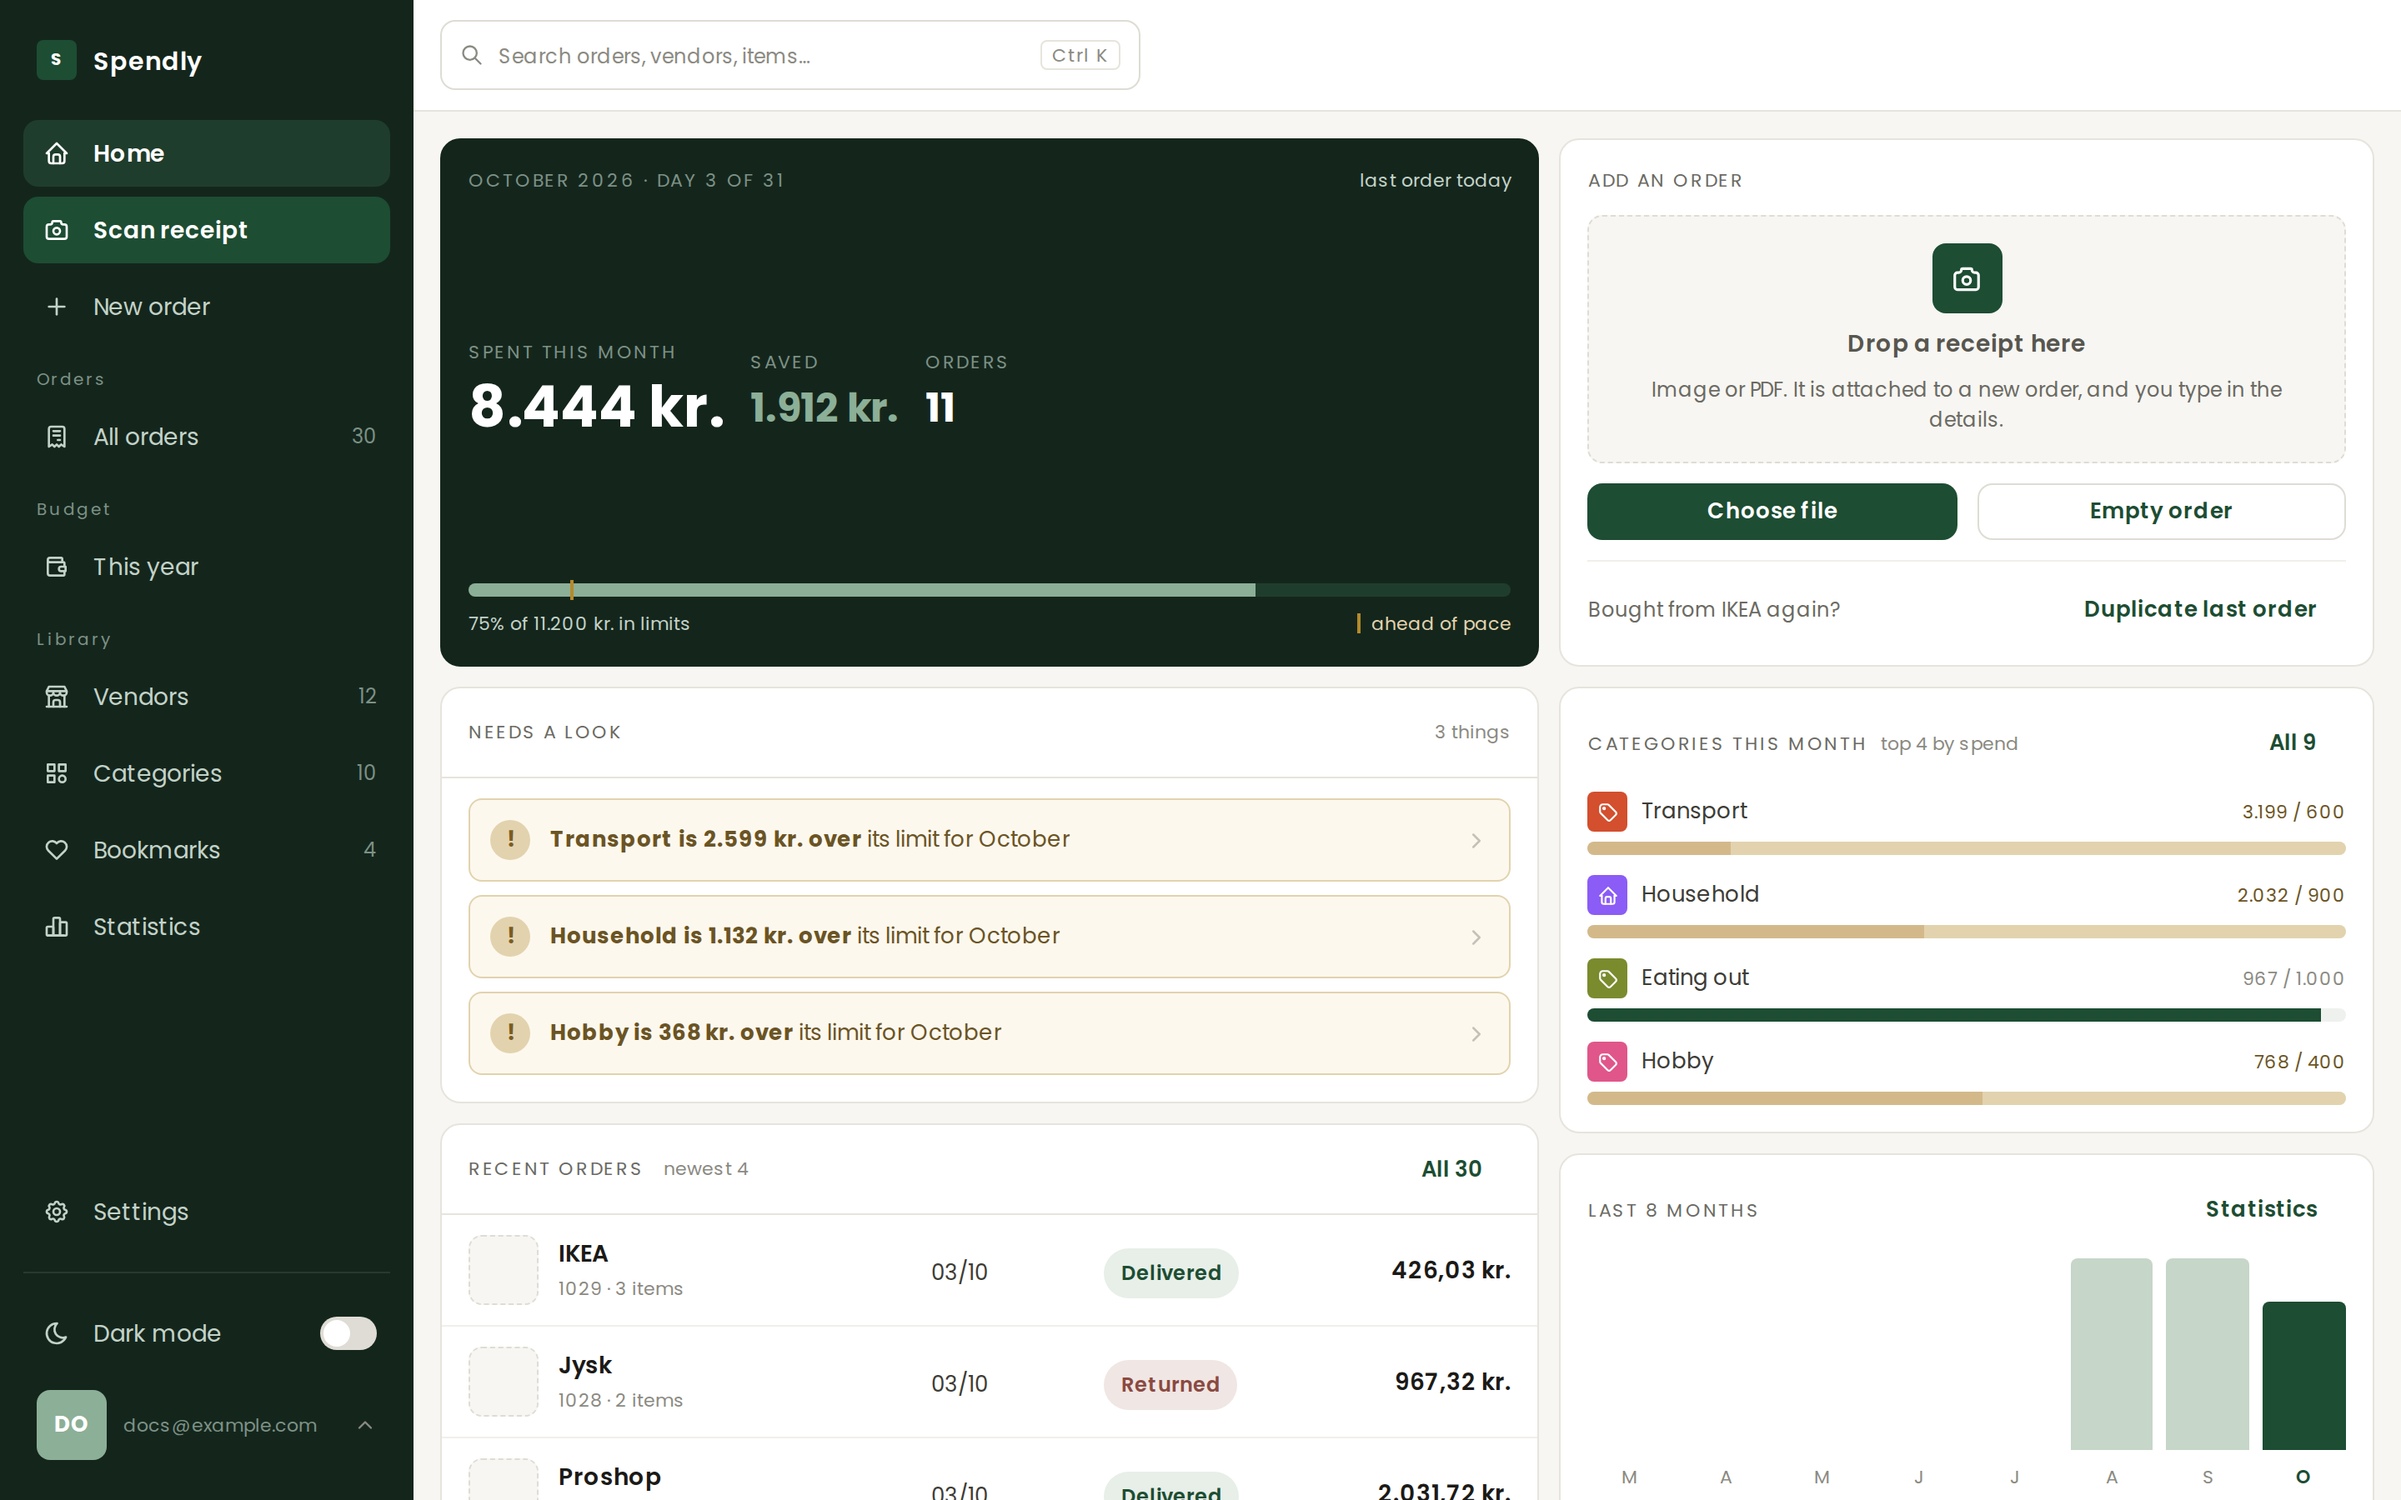
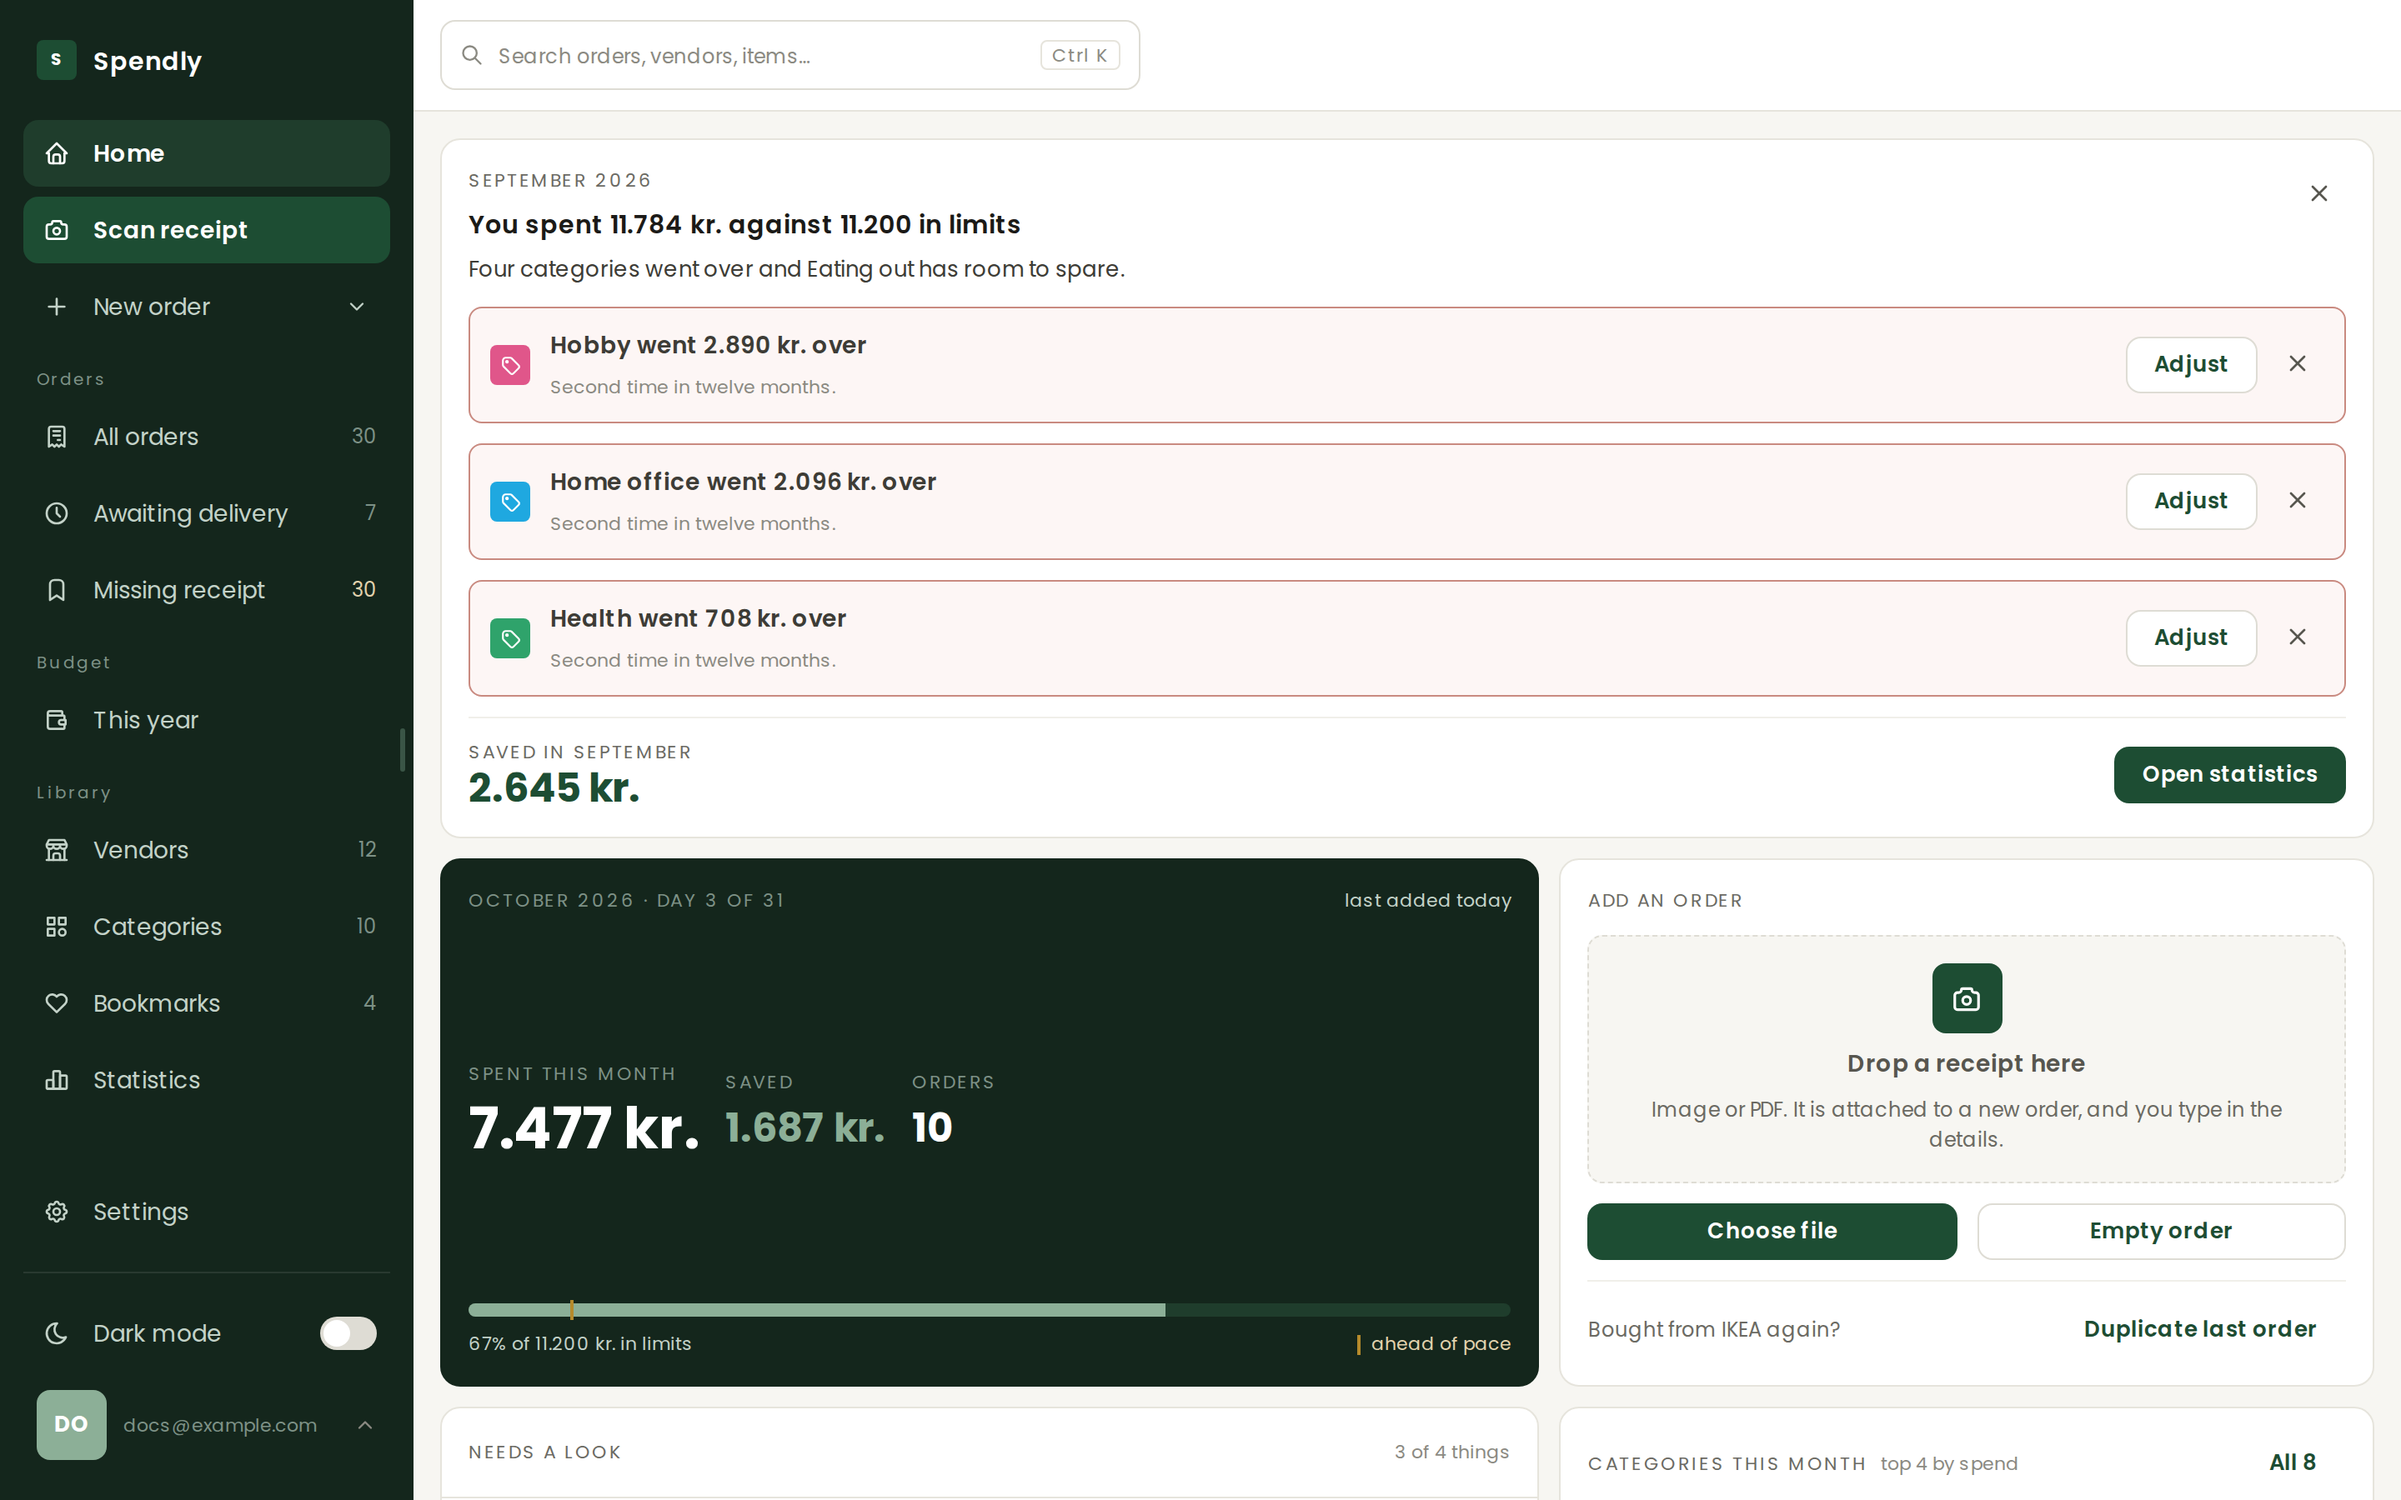
Monthly summary: each line can be hidden for that month; the docs shots are re-rendered
A line's x hides that category from the month's summary on every device, with Undo, until the next
month's summary arrives (a new table keyed by month, migration 181). On a phone a row's text
buttons go under its words, where the words start, so a line's figure is never covered.

docs/home.png, all-orders.png and phone.png are rendered from the app as it now is; two renders
in a row differ by 0 pixels.

Claude-Session: https://claude.ai/code/session_01Av9Hpy6pVGaoxMQY8Ab8u5

diff --git a/react/src/pages/Home.jsx b/react/src/pages/Home.jsx
@@ -17,7 +17,7 @@ import { useShellShape } from '../app/useMedia.js'
 import { CategoryMark, glyphOf } from '../app/categoryMark.jsx'
 import { OrderPhoto, StatusPill } from '../app/orderRow.jsx'
 import {
-	failureMessage, getCategories, getCurrentUser, getHomeAttention, getMonthlySummary, getOrders, getSettings, getStatsSlice,
+	failureMessage, getCategories, getCurrentUser, getHomeAttention, getMonthlySummary, hideSummaryLine, getOrders, getSettings, getStatsSlice,
 	overBudget, putSummaryAway, withMonthSpend
 } from '../api/client.js'
 import { useApi } from '../api/useApi.js'
@@ -157,8 +157,21 @@ export default function Home() {
 		}
 	}
 	const due = summary.data
+	// a line hidden or brought back here holds until the server's answer says the same
+	const [lineHidden, setLineHidden] = useState({})
+	const isHidden = id => lineHidden[id] ?? due?.hidden?.includes(id) ?? false
+	const hideLine = async (c, monthName, hidden = true) => {
+		setLineHidden(was => ({ ...was, [c.id]: hidden }))
+		try {
+			await hideSummaryLine(due.month, c.id, hidden)
+			if (hidden) toast({ message: `${c.name} is hidden from the ${monthName} summary.`, undo: { label: 'Undo', onClick: () => hideLine(c, monthName, false) } })
+		} catch (error) {
+			setLineHidden(was => ({ ...was, [c.id]: !hidden }))
+			toast({ message: failureMessage(error, hidden ? 'The line was not hidden. Try again.' : 'The line did not come back. Try again.'), color: 'danger' })
+		}
+	}
 	const notice = known && loud.summary && due?.orders && !due.seen && putAway !== due.month && categories.data
-		? <MonthlySummary summary={due} categories={categories.data} early={loud.early} onHide={() => hide(due.month)} />
+		? <MonthlySummary summary={due} categories={categories.data} early={loud.early} onHide={() => hide(due.month)} isHidden={isHidden} onHideLine={hideLine} />
 		: null
 	if (recent.data && !recent.data.total) return <DayOne categories={categories.data} name={name} touch={touch} />
 	const props = { month, categories, view, recent, attention: attention.data, name, notice }
@@ -356,7 +369,7 @@ function summarySentence(over, close, room) {
 
 /** Last month against its limits, said once (8b, 6f): from the first of the month until the reader
     hides it. Each row opens that month's orders in the category. */
-function MonthlySummary({ summary, categories, early, onHide }) {
+function MonthlySummary({ summary, categories, early, onHide, isHidden, onHideLine }) {
 	const month = monthNames('long')[Number(summary.month.slice(5)) - 1]
 	const byId = new Map(categories.map(c => [c.id, c]))
 	const rows = summary.limits
@@ -369,19 +382,22 @@ function MonthlySummary({ summary, categories, early, onHide }) {
 	const limits = rows.reduce((sum, c) => sum + c.budget, 0)
 	const of = c => `${amount(c.spend, 0)} of ${currency(c.budget, 0)}`
 	const link = c => `/orders?category=${c.id}&from=${summary.from}&to=${summary.to}`
+	// a hidden line goes from the rows below, not from what the month came to
+	const shown = c => !isHidden(c.id)
+	const roomShown = rows.filter(c => shown(c) && !over.includes(c) && !close.includes(c)).sort((a, b) => a.used - b.used || a.name.localeCompare(b.name))[0]
 	const lines = [
-		...over.map(c => ({
+		...over.filter(shown).map(c => ({
 			c, color: 'danger', mark: <CategoryMark category={c} size="small" />,
 			said: `went ${currency(c.spend - c.budget, 0)} over`,
 			meta: c.overs >= 12 ? 'Over in all twelve months. The limit may be too low.'
 				: c.overs >= 2 ? `${ORDINALS[c.overs]} time in twelve months.${c.overs >= 3 ? ' The limit may be too low.' : ''}` : of(c),
 			adjust: true
 		})),
-		...close.map(c => ({
+		...close.filter(shown).map(c => ({
 			c, mark: <Mark size="small" fill="solid" swatch="green-3" aria-hidden="true" aria-label="Close to its limit"><Icon name="alert-triangle" size={13} /></Mark>,
 			said: `finished at ${Math.floor(c.used)}%`, meta: of(c)
 		})),
-		...(room ? [{ c: room, mark: <Mark size="small" aria-hidden="true" aria-label={room.name}><Icon name={glyphOf(room.icon)} size={13} /></Mark>, said: `used ${Math.round(room.used)}%`, meta: of(room) }] : [])
+		...(roomShown ? [{ c: roomShown, mark: <Mark size="small" aria-hidden="true" aria-label={roomShown.name}><Icon name={glyphOf(roomShown.icon)} size={13} /></Mark>, said: `used ${Math.round(roomShown.used)}%`, meta: of(roomShown) }] : [])
 	].slice(0, SUMMARY_ROWS)
 	return (
 		<Card footer={[
@@ -406,7 +422,10 @@ function MonthlySummary({ summary, categories, early, onHide }) {
 					<div className="sp-stack sp-gap-12">
 						{lines.map(line => (
 							<ListItem key={line.c.id} color={line.color} mark={line.mark}
-								actions={line.adjust ? <Button variant="outline" size="small" to={`/categories/${line.c.id}/edit`}>Adjust</Button> : null}>
+								actions={<>
+									{line.adjust ? <Button variant="outline" size="small" to={`/categories/${line.c.id}/edit`}>Adjust</Button> : null}
+									<IconButton icon="x" aria-label={`Hide ${line.c.name} from the ${month} summary`} onClick={() => onHideLine(line.c, month)} />
+								</>}>
 								<Link className="sp-stack sp-gap-6 sp-grow hm-link" to={link(line.c)}>
 									<span className="sp-title hm-said"><span className="sp-truncate">{line.c.name}</span><span className="sp-nowrap">{line.said}</span></span>
 									<span className="sp-meta">{line.meta}</span>

diff --git a/api/src/lib/stats.js b/api/src/lib/stats.js
@@ -535,6 +535,11 @@ const selectLimitedMonths = db.prepare(`
 	GROUP BY oc.category_id, month
 `)
 const selectSummarySeen = db.prepare('SELECT month FROM monthly_summary_seen WHERE user_id = ?')
+const selectSummaryHidden = db.prepare('SELECT category_id AS id FROM monthly_summary_hidden WHERE user_id = ? AND month = ?')
+const selectOwnCategory = db.prepare('SELECT id FROM categories WHERE id = ? AND user_id = ?')
+const insertSummaryHidden = db.prepare('INSERT OR IGNORE INTO monthly_summary_hidden (user_id, month, category_id) VALUES (?, ?, ?)')
+const deleteSummaryHidden = db.prepare('DELETE FROM monthly_summary_hidden WHERE user_id = ? AND month = ? AND category_id = ?')
+const deleteOlderHidden = db.prepare('DELETE FROM monthly_summary_hidden WHERE user_id = ? AND month < ?')
 const upsertSummarySeen = db.prepare(`
 	INSERT INTO monthly_summary_seen (user_id, month) VALUES (?, ?)
 	ON CONFLICT (user_id) DO UPDATE SET month = excluded.month
@@ -560,6 +565,7 @@ export function monthlySummary(userId, day = todayIso()) {
 		month, from: fromEpoch(from), to: fromEpoch(to - DAY),
 		spent: totals.spent, saved: totals.saved, orders: totals.orders,
 		seen: selectSummarySeen.get(userId)?.month === month,
+		hidden: selectSummaryHidden.all(userId, month).map(r => r.id),
 		limits: limited.map(c => ({ id: c.id, spend: spendOf.get(c.id) ?? 0, overs: overs.get(c.id) ?? 0 }))
 	}
 }
@@ -568,6 +574,15 @@ export function monthlySummary(userId, day = todayIso()) {
 export function markSummarySeen(userId, month) {
 	if (!/^\d{4}-(0[1-9]|1[0-2])$/.test(String(month ?? ''))) return false
 	upsertSummarySeen.run(userId, month)
+	return true
+}
+
+/** The reader hid one line of a month's summary, or brought it back; lines of earlier months go. */
+export function setSummaryLineHidden(userId, month, categoryId, hidden) {
+	if (!/^\d{4}-(0[1-9]|1[0-2])$/.test(String(month ?? '')) || !selectOwnCategory.get(String(categoryId ?? ''), userId)) return false
+	if (hidden) insertSummaryHidden.run(userId, month, categoryId)
+	else deleteSummaryHidden.run(userId, month, categoryId)
+	deleteOlderHidden.run(userId, month)
 	return true
 }
 

diff --git a/api/src/routes/stats.js b/api/src/routes/stats.js
@@ -1,5 +1,5 @@
 import { Router } from 'express'
-import { filterOf, getStats, homeAttention, markSummarySeen, monthlySummary, sliceLines, sliceOrders } from '../lib/stats.js'
+import { filterOf, getStats, homeAttention, markSummarySeen, monthlySummary, setSummaryLineHidden, sliceLines, sliceOrders } from '../lib/stats.js'
 
 export const router = Router()
 
@@ -26,5 +26,11 @@ router.get('/summary', (req, res) => {
 
 router.put('/summary/seen', (req, res) => {
 	if (!markSummarySeen(req.user.id, req.body?.month)) return res.status(400).json({ error: 'Which month?' })
+	res.status(204).end()
+})
+
+router.put('/summary/hidden', (req, res) => {
+	const { month, categoryId, hidden } = req.body ?? {}
+	if (!setSummaryLineHidden(req.user.id, month, categoryId, hidden !== false)) return res.status(400).json({ error: 'Which month and category?' })
 	res.status(204).end()
 })

diff --git a/react/src/styles/components.css b/react/src/styles/components.css
@@ -1508,6 +1508,10 @@ button.sp-crumb:focus-visible { box-shadow: var(--ring); }
 .sp-touch .sp-switch::after { width: 20px; height: 20px; top: var(--sp-2); left: var(--sp-2); }
 .sp-touch .sp-switch:checked::after { transform: translateX(18px); }
 .sp-touch .sp-list-item__line .sp-title { font-size: var(--t-15); }
+/* on a phone a row's text buttons do not fit beside its words: they go under them, where the words start */
+.sp-touch .sp-list-item:has(> .sp-list-item__actions .sp-btn) { flex-wrap: wrap; }
+.sp-touch .sp-list-item > .sp-list-item__actions:has(.sp-btn) { flex-basis: 100%; }
+.sp-touch .sp-list-item:has(> .sp-mark--small, > .sp-list-item__count) > .sp-list-item__actions:has(.sp-btn) { padding-left: calc(var(--mark-small) + var(--sp-12)); }
 
 /* the shell's own touch query (app/useMedia.js): 640 is still the desktop rail */
 @media (max-width: 639.98px) {

diff --git a/react/src/api/client.js b/react/src/api/client.js
@@ -808,6 +808,13 @@ export async function putSummaryAway(month, signal) {
 	return answer
 }
 
+/** Hides one category's line from a month's summary, or brings it back (`hidden` false). */
+export async function hideSummaryLine(month, categoryId, hidden, signal) {
+	const answer = await request('/api/stats/summary/hidden', { method: 'PUT', body: { month, categoryId, hidden }, signal })
+	invalidate(getMonthlySummary)
+	return answer
+}
+
 /** The order the vendors and categories lists open in: one setting, so only the orders both lists
     have. A label names the column and the direction; Name has one direction, the one that finds. */
 export const listSorts = [
